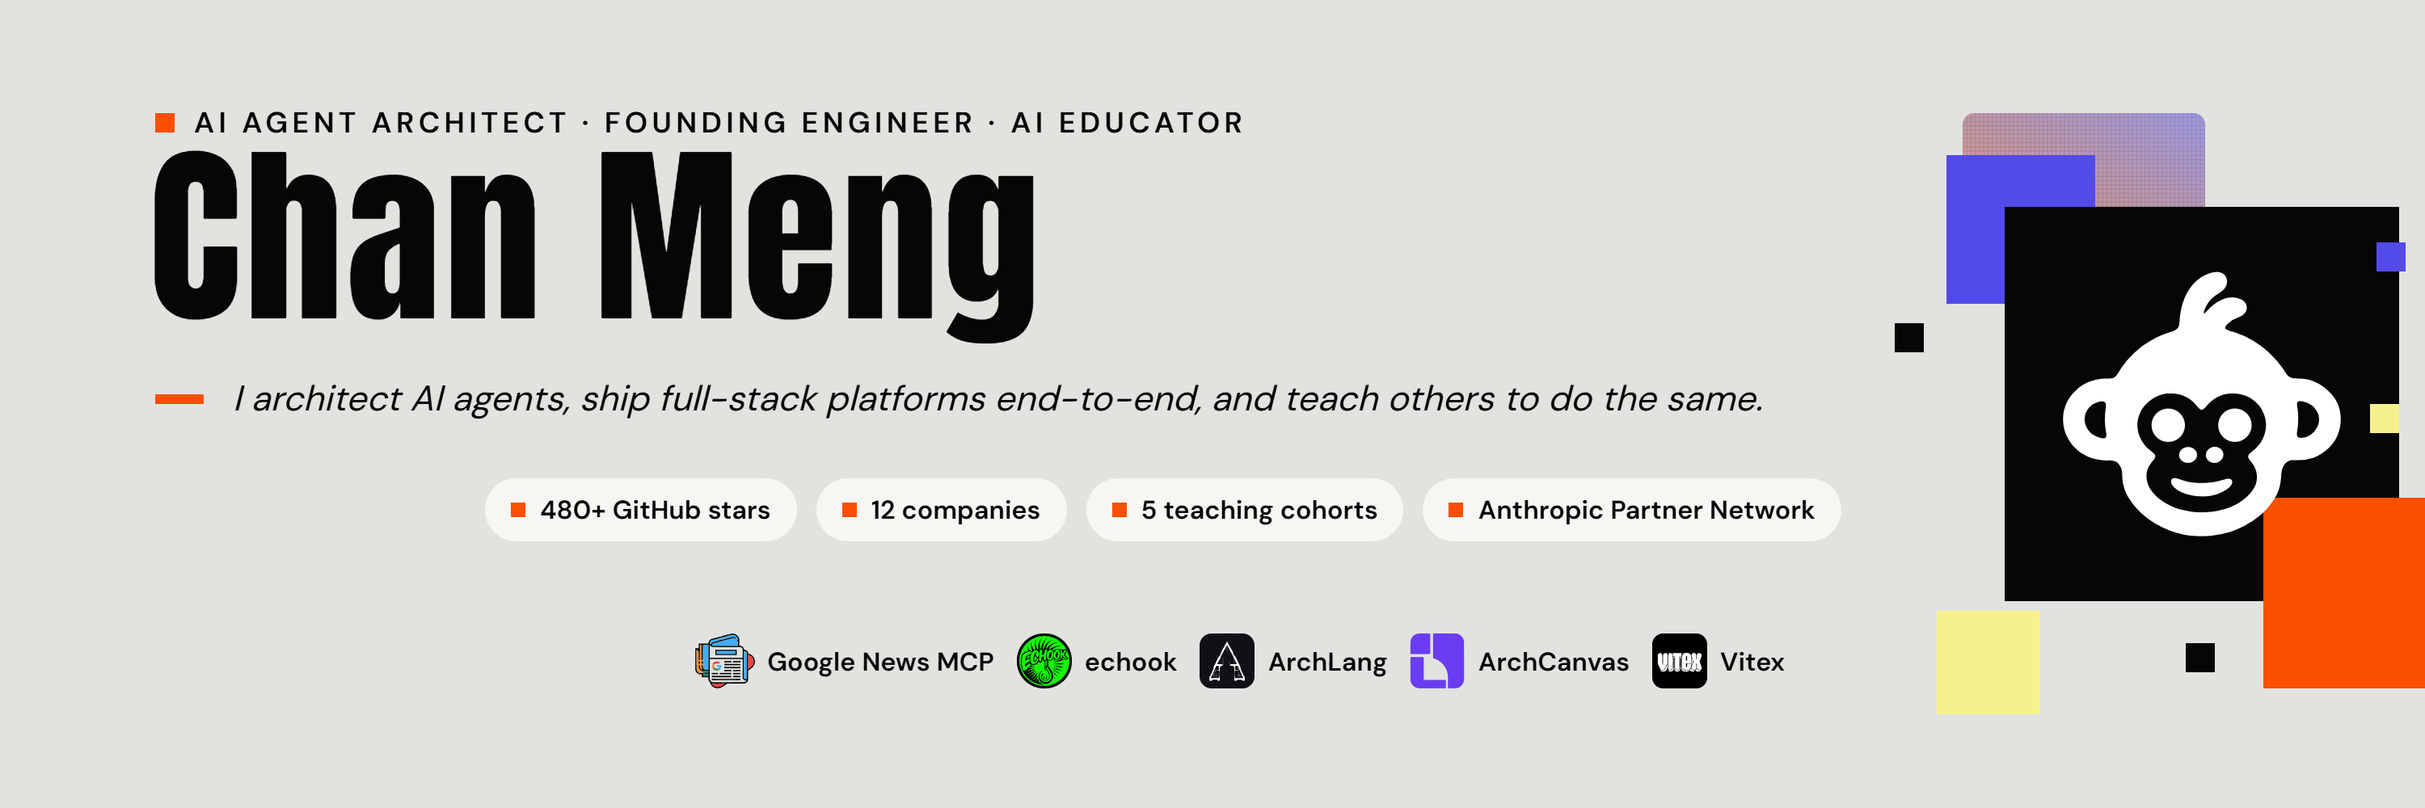
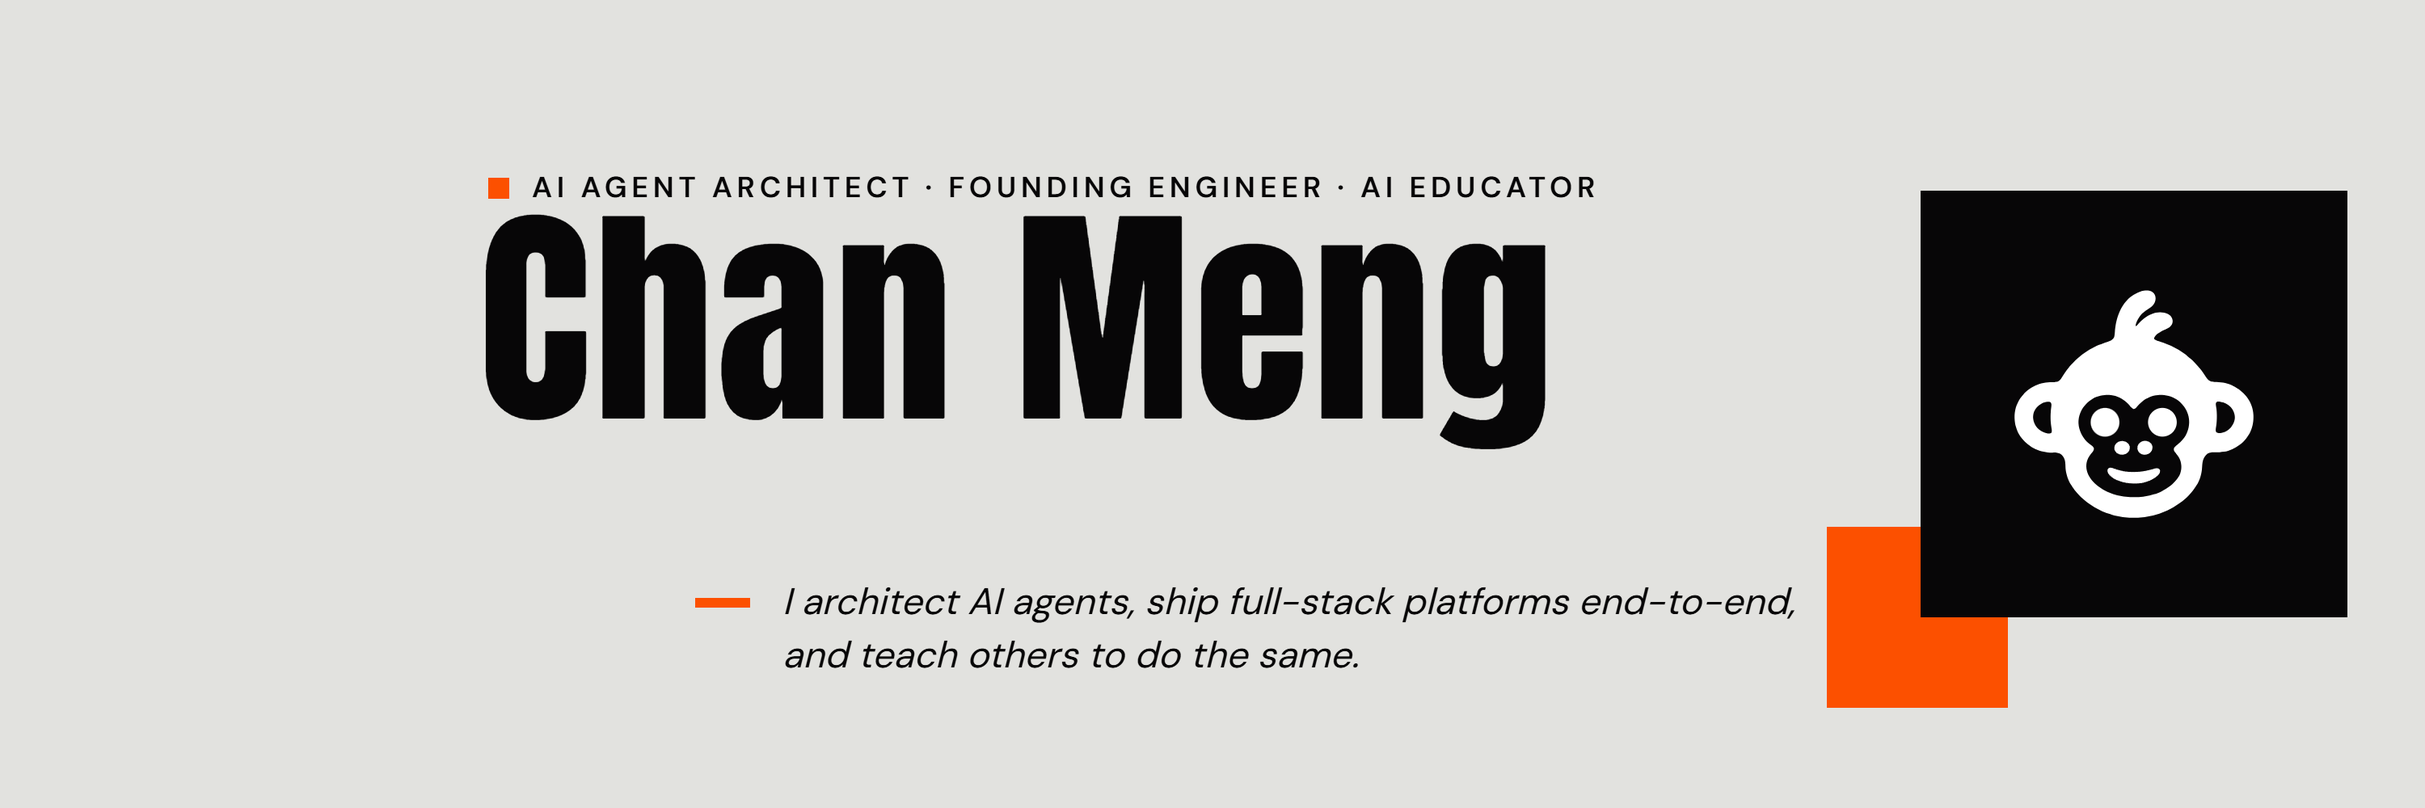
feat(x): v2 refinements — product-led bio, minimal header, pinned product-lineup image
Claude-Session: https://claude.ai/code/session_01QXprKmRtKgMAWYn544mSTt

diff --git a/x/header/header.html b/x/header/header.html
@@ -8,104 +8,68 @@
 <link href="https://fonts.googleapis.com/css2?family=Anton&family=DM+Sans:opsz,wght@9..40,400;9..40,500;9..40,600;9..40,700&display=swap" rel="stylesheet">
 <style>
   :root{
-    --basalt:#E2E2DF; --ash:#F7F6F2; --white:#FFFFFF; --ink:#070607;
-    --orange:#FC5000; --violet:#524AE9; --glare:#F5F28E; --muted:#5B5B59;
+    --basalt:#E2E2DF; --ink:#070607; --orange:#FC5000; --muted:#5B5B59;
   }
   *,*::before,*::after{ box-sizing:border-box; }
   html,body{ margin:0; padding:0; background:#aaa; font-family:'DM Sans',sans-serif; -webkit-font-smoothing:antialiased; }
 
-  /* Flat basalt ground — clean, lets the color-block composition pop.
-     X renders this at 1500×500 (3:1). */
+  /* Flat basalt ground. X renders this at 1500×500 (3:1). The header's only
+     job is identity — product proof lives in the bio + pinned image now, so
+     everything here is generous air, one big name, and one color-block mark. */
   .header{
     width:1500px; height:500px; position:relative;
     background:var(--basalt); overflow:hidden;
   }
 
-  /* ── Identity block — upper/left, well clear of the bottom-left corner where
-        X overlays the round profile avatar (~x46–246, y296–496 desktop). ── */
+  /* ── Left identity stack. Left edge at x=300 so the whole column sits clear
+        of the bottom-left avatar rectangle (x<280, y>280) that X overlays, and
+        leaves a wide basalt margin on the far left for calm asymmetry. ── */
   .eyebrow{
-    position:absolute; left:96px; top:64px;
-    font-weight:600; font-size:18px; letter-spacing:0.15em; text-transform:uppercase;
-    color:var(--ink); display:flex; align-items:center; gap:12px;
+    position:absolute; left:302px; top:104px;
+    font-weight:600; font-size:18px; letter-spacing:0.16em; text-transform:uppercase;
+    color:var(--ink); display:flex; align-items:center; gap:14px;
   }
-  .eyebrow .dot{ width:12px; height:12px; background:var(--orange); display:inline-block; flex:none; }
+  .eyebrow .sq{ width:13px; height:13px; background:var(--orange); display:inline-block; flex:none; }
 
   .name{
-    position:absolute; left:92px; top:92px;
-    font-family:'Anton',sans-serif; font-weight:400; font-size:120px;
-    line-height:0.9; letter-spacing:0.02em; color:var(--ink);
+    position:absolute; left:296px; top:132px;
+    font-family:'Anton',sans-serif; font-weight:400; font-size:146px;
+    line-height:0.9; letter-spacing:0.015em; color:var(--ink);
   }
 
-  /* Italic tagline with the orange dash mark — one clean line under the name. */
-  .signature{
-    position:absolute; left:96px; top:232px; white-space:nowrap;
-    display:flex; align-items:center; gap:18px;
+  /* Italic tagline with the orange dash mark — two calm lines under the name.
+     Left edge at x=430 (matches the LinkedIn cover .signature) so BOTH lines
+     clear the round avatar overlay: the avatar circle is widest at its vertical
+     centre (~y396), which aligns with the tagline's lower line, and there it
+     reaches past the old x≈300 edge — 430 keeps both lines clear with margin. */
+  .tagline{
+    position:absolute; left:430px; top:356px;
+    display:flex; align-items:flex-start; gap:20px;
   }
-  .signature .mark{ width:30px; height:6px; background:var(--orange); flex:none; }
-  .signature .text{
-    font-style:italic; font-weight:400; font-size:22px; letter-spacing:0.005em; color:var(--ink);
-  }
-
-  /* ── Metric chips — mid band. Starts x300 to stay clear of the avatar. ── */
-  .metrics{
-    position:absolute; left:300px; top:296px;
-    display:flex; align-items:center; gap:12px;
-  }
-  .chip{
-    display:flex; align-items:center; gap:9px;
-    background:var(--ash); border-radius:20px;
-    padding:9px 16px; white-space:nowrap;
-    font-weight:600; font-size:16px; letter-spacing:0.005em; color:var(--ink);
-  }
-  .chip .sq{ width:9px; height:9px; background:var(--orange); flex:none; }
-
-  /* ── Flagship proof strip — lower band, starts x430 so it clears the avatar
-        entirely. Product mark + wordmark per chip. ── */
-  .proof{
-    position:absolute; left:430px; top:392px;
-    display:flex; align-items:center; gap:14px;
-  }
-  .pchip{
-    display:flex; align-items:center; gap:8px;
-    white-space:nowrap;
-    font-weight:600; font-size:16px; letter-spacing:0.005em; color:var(--ink);
-  }
-  .pchip img{ height:34px; width:auto; display:block; flex:none; }
-  /* Anton wordmark fallback for marks that render illegibly small. */
-  .pchip .wm{
-    font-family:'Anton',sans-serif; font-weight:400; font-size:26px;
-    letter-spacing:0.02em; color:var(--ink); line-height:1;
-    height:34px; display:flex; align-items:center;
+  .tagline .mark{ width:34px; height:6px; background:var(--orange); flex:none; margin-top:14px; }
+  .tagline .text{
+    font-style:italic; font-weight:400; font-size:23px; line-height:1.45;
+    letter-spacing:0.005em; color:var(--ink);
   }
 
-  /* ── Right-side color-block composition — flat squares + monkey lockup,
-        scaled from the LinkedIn cover to the 500px-tall X canvas. Kept to
-        x>1200 so it never fights the text column. ── */
-  .block{ position:absolute; }
-  .b-violet{ left:1204px; top:96px;  width:92px;  height:92px;  background:var(--violet); }
-  .b-ink{    left:1240px; top:128px; width:244px; height:244px; background:var(--ink); }
-  .b-orange{ left:1400px; top:308px; width:118px; height:118px; background:var(--orange); }
-  .b-glare{  left:1198px; top:378px; width:64px;  height:64px;  background:var(--glare); }
-
-  /* Subtle halftone panel behind the blocks — the risograph texture signature. */
-  .halftone{
-    position:absolute; left:1214px; top:70px; width:150px; height:auto;
-    opacity:0.5; z-index:0;
+  /* ── Right side — exactly two elements. One large ink block carrying the
+        monkey mark, plus one orange square offset behind its lower-left
+        corner. Nothing else. Kept to x>1150 so it never crowds the name. ── */
+  .b-ink{
+    position:absolute; left:1188px; top:118px; width:264px; height:264px;
+    background:var(--ink); z-index:2;
+  }
+  .b-orange{
+    position:absolute; left:1130px; top:326px; width:112px; height:112px;
+    background:var(--orange); z-index:1;
   }
 
   /* Monkey mark on the ink block — invert flips the black art to white; the
      screen blend drops the SVG's white background square cleanly into the ink. */
   .logo{
-    position:absolute; left:1276px; top:164px; width:172px; height:172px;
-    filter:invert(1); mix-blend-mode:screen; z-index:2;
+    position:absolute; left:1246px; top:176px; width:148px; height:148px;
+    filter:invert(1); mix-blend-mode:screen; z-index:3;
   }
-
-  /* Scattered pixel accents — the cyber-playground signature. */
-  .px{ position:absolute; width:18px; height:18px; z-index:1; }
-  .p1{ left:1172px; top:200px; background:var(--ink); }
-  .p2{ left:1470px; top:150px; background:var(--violet); }
-  .p3{ left:1466px; top:250px; background:var(--glare); }
-  .p4{ left:1352px; top:398px; background:var(--ink); }
 
   /* ── Debug safe-zone overlay. OFF by default. To toggle ON, add the class to
         <body>: <body class="show-guides">  (remove before shipping). ── */
@@ -130,41 +94,17 @@
 <div class="header" data-out="x-header.png">
 
   <!-- identity -->
-  <div class="eyebrow"><span class="dot"></span>AI Agent Architect · Founding Engineer · AI Educator</div>
+  <div class="eyebrow"><span class="sq"></span>AI Agent Architect · Founding Engineer · AI Educator</div>
   <div class="name">Chan Meng</div>
-  <div class="signature">
+  <div class="tagline">
     <span class="mark"></span>
-    <span class="text">I architect AI agents, ship full-stack platforms end-to-end, and teach others to do the same.</span>
+    <span class="text">I architect AI agents, ship full-stack platforms end-to-end,<br>and teach others to do the same.</span>
   </div>
 
-  <!-- metric chips -->
-  <div class="metrics">
-    <span class="chip"><span class="sq"></span>480+ GitHub stars</span>
-    <span class="chip"><span class="sq"></span>12 companies</span>
-    <span class="chip"><span class="sq"></span>5 teaching cohorts</span>
-    <span class="chip"><span class="sq"></span>Anthropic Partner Network</span>
-  </div>
-
-  <!-- flagship proof strip -->
-  <div class="proof">
-    <span class="pchip"><img src="../../public/brands/server-google-news-mark.svg" alt="">Google News MCP</span>
-    <span class="pchip"><img src="../../public/brands/echook-logo.svg" alt="">echook</span>
-    <span class="pchip"><img src="../../public/brands/archlang-logo.svg" alt="">ArchLang</span>
-    <span class="pchip"><img src="../../public/brands/archcanvas-logo.svg" alt="">ArchCanvas</span>
-    <span class="pchip"><img src="../../public/brands/vitex.svg" alt="">Vitex</span>
-  </div>
-
-  <!-- right composition -->
-  <img class="halftone" src="../../public/brand/halftone-thumb.svg" alt="">
-  <div class="block b-violet"></div>
-  <div class="block b-ink"></div>
-  <div class="block b-orange"></div>
-  <div class="block b-glare"></div>
+  <!-- right composition — two elements only -->
+  <div class="b-orange"></div>
+  <div class="b-ink"></div>
   <img class="logo" src="../../public/brands/chan-monkey-logo-black.svg" alt="">
-  <div class="px p1"></div>
-  <div class="px p2"></div>
-  <div class="px p3"></div>
-  <div class="px p4"></div>
 
   <!-- safe-zone guides (hidden unless body.show-guides) -->
   <div class="guides">

diff --git a/x/media/pinned-products.html b/x/media/pinned-products.html
@@ -1,0 +1,104 @@
+<!DOCTYPE html>
+<html lang="en">
+<head>
+<meta charset="utf-8">
+<title>Chan Meng — Pinned Products (Caldera)</title>
+<link rel="preconnect" href="https://fonts.googleapis.com">
+<link rel="preconnect" href="https://fonts.gstatic.com" crossorigin>
+<link href="https://fonts.googleapis.com/css2?family=Anton&family=DM+Sans:opsz,wght@9..40,400;9..40,500;9..40,600;9..40,700&display=swap" rel="stylesheet">
+<style>
+  :root{
+    --basalt:#E2E2DF; --ash:#F7F6F2; --white:#FFFFFF; --ink:#070607;
+    --orange:#FC5000; --violet:#524AE9; --glare:#F5F28E; --muted:#5B5B59;
+  }
+  *,*::before,*::after{ box-sizing:border-box; }
+  html,body{ margin:0; padding:0; background:#aaa; font-family:'DM Sans',sans-serif; -webkit-font-smoothing:antialiased; }
+
+  /* Full-bleed basalt canvas — no frame, no border, no card-within-card.
+     X renders inline media at 16:9; this is 1200×675, captured at 2×. */
+  .sheet{
+    width:1200px; height:675px; position:relative;
+    background:var(--basalt); overflow:hidden;
+    padding:96px 100px;
+    display:flex; flex-direction:column; justify-content:space-between;
+  }
+
+  /* ── Eyebrow — small uppercase kicker, top-left. ── */
+  .eyebrow{
+    display:flex; align-items:center; gap:14px;
+    font-weight:700; font-size:16px; letter-spacing:0.22em; text-transform:uppercase;
+    color:var(--ink);
+  }
+  .eyebrow .sq{ width:11px; height:11px; background:var(--orange); flex:none; display:block; }
+
+  /* ── Product list — typographic rows, separated by air + a quiet hairline.
+        No boxes. Name column is fixed-width so the one-liners align. ── */
+  .list{ display:flex; flex-direction:column; }
+  .row{
+    display:flex; align-items:center; gap:28px;
+    padding:19px 0;
+  }
+  .row + .row{ border-top:1px solid rgba(7,6,7,0.11); }
+
+  .name-wrap{
+    width:392px; flex:none;
+    display:flex; align-items:center; gap:16px;
+  }
+  .name-wrap .bullet{ width:8px; height:8px; background:var(--orange); flex:none; display:block; }
+  .pname{
+    font-family:'Anton',sans-serif; font-weight:400; font-size:44px;
+    line-height:1; letter-spacing:0.012em; color:var(--ink);
+  }
+  .pdesc{
+    font-weight:500; font-size:21px; line-height:1.3; letter-spacing:0.004em;
+    color:var(--muted);
+  }
+
+  /* ── Footer signature — monkey mark + wordmark, bottom-left, aligned to the
+        left edge of everything above it. Transparent-black SVG sits directly
+        on basalt (no tile, no invert trick needed). ── */
+  .sign{
+    display:flex; align-items:center; gap:14px;
+  }
+  .sign img{ height:30px; width:auto; display:block; flex:none; }
+  .sign .who{ font-weight:600; font-size:19px; letter-spacing:0.01em; color:var(--ink); }
+</style>
+</head>
+<body>
+
+<div class="sheet" data-out="pinned-products.png">
+
+  <div class="eyebrow"><span class="sq"></span>What I Build</div>
+
+  <div class="list">
+    <div class="row">
+      <div class="name-wrap"><span class="bullet"></span><span class="pname">Google News MCP</span></div>
+      <div class="pdesc">Live news for AI assistants</div>
+    </div>
+    <div class="row">
+      <div class="name-wrap"><span class="bullet"></span><span class="pname">echook</span></div>
+      <div class="pdesc">Talk-to-configure notifications for coding agents</div>
+    </div>
+    <div class="row">
+      <div class="name-wrap"><span class="bullet"></span><span class="pname">ArchLang</span></div>
+      <div class="pdesc">A text language for floor plans</div>
+    </div>
+    <div class="row">
+      <div class="name-wrap"><span class="bullet"></span><span class="pname">ArchCanvas</span></div>
+      <div class="pdesc">Describe a building, get a buildable plan</div>
+    </div>
+    <div class="row">
+      <div class="name-wrap"><span class="bullet"></span><span class="pname">Vitex</span></div>
+      <div class="pdesc">Job ad in, tailored resume out</div>
+    </div>
+  </div>
+
+  <div class="sign">
+    <img src="../../public/brands/chan-meng-monkey-black-transparent.svg" alt="">
+    <span class="who">Chan Meng</span>
+  </div>
+
+</div>
+
+</body>
+</html>

diff --git a/x/x-profile.md b/x/x-profile.md
@@ -19,11 +19,17 @@ Copy for the X (Twitter) profile fields — display name, bio, location, website
 
 Pattern `Chan Meng — <short role descriptor>`. "AI Agent Architect" is the lead descriptor from `basics.label` and `meta.x_brand.valueProposition.identity`; it is the single most search-relevant role for both recruiters and technical readers, so it earns the display-name slot over the longer "& Full-Stack Engineer" (which lives in the bio instead).
 
-**Bio** (≤160 chars) — chosen primary:
+**Bio** (≤160 chars) — chosen primary (v2):
+
+> AI agent architect & full-stack engineer. ArchCanvas (archcanvas.uk): describe a building → buildable floor plan. Vitex (vitex.org.nz): job ad → resume.
+
+(152 chars.) Contains (a) compressed identity opener — AI agent architect + full-stack engineer; (b) two flagship products each with its live link as a bare domain and a value hint a stranger can parse — **ArchCanvas** (`archcanvas.uk`, the AI architect: describe a building and get a dimensioned, buildable floor plan) and **Vitex** (`vitex.org.nz`, the AI career agent: a job ad becomes a tailored resume). X bios count plain characters and are NOT t.co-wrapped, and X auto-links bare domains, so `archcanvas.uk` / `vitex.org.nz` render as clickable links at their literal character cost. No `chanmeng.org` — the Website field already carries it, so repeating it here would be redundant.
+
+_Previous bio (v1, applied live 2026-07-19, superseded same day) — kept for history:_
 
 > AI agent architect & full-stack engineer. I ship AI-native products end to end — creator of Tam-AI-Ti, a Te Whare Tapa Whā AI coach. chanmeng.org
 
-(145 chars.) Contains (a) compressed identity — AI agent architect + full-stack engineer; (b) one flagship proof point — Tam-AI-Ti, the Te Whare Tapa Whā AI coach (`20-projects-flagship.yaml`, flagship, live at tamaiti.whiri-ai.com); (c) pointer to chanmeng.org. The human-stakes lead ("I ship AI-native products end to end") reads for a recruiter; the named product and the cultural-tech specificity read for an engineer. X bios count plain characters and do not t.co-shorten URLs, so `chanmeng.org` is counted verbatim.
+_v2 applied live 2026-07-19 (@chanmeng666): the primary bio above was set live (renders with clean bare-domain links `archcanvas.uk` / `vitex.org.nz`); the header was replaced with the redesigned minimal `x/header/x-header.png`; the v1 pinned intro thread (root status `2078709504532000825`, 3 tweets) was deleted and a fresh 3-tweet thread from `x/x-pinned-tweet.md` was posted, with `x/media/pinned-products.png` attached to tweet 1 and pinned (new root status `2078727381859389815`). Auto-generated link cards were removed from tweets 2 and 3 so the thread's only media is tweet 1's product lineup. Display name, location, and website were left unchanged. The v0 rollback table above is preserved as the original pre-July baseline._
 
 **Location** — `Auckland, New Zealand`
 
@@ -35,17 +41,17 @@ Reasoning: X's Professional Account category taxonomy has no "software engineer"
 
 ## Alternate bios
 
-**Alternate 1** (148 chars) — credential-forward, recruiter-leaning:
+**Alternate 1** (160 chars) — recruiter-leaning, "ships products solo":
 
-> AI Agent Architect · Founding engineer · AI educator. 480+ GitHub stars, Master’s with Distinction. AI, cultural tech & women’s health. chanmeng.org
+> AI agent architect & full-stack engineer. I ship AI-native products solo: ArchCanvas (archcanvas.uk), an AI architect, and Vitex (vitex.org.nz), a career agent.
 
-_When to use:_ during an active job search or recruiter-heavy period, when the adoption signal (480+ stars — given by other people, per the `proofLine` note in `90-meta.yaml`) and the credential do more work than a single named product.
+_When to use:_ during an active job search or recruiter-heavy period, where the "ships AI-native products solo" framing plus two live, linked, self-describing products (ArchCanvas = AI architect, Vitex = AI career agent) does more work than a bare credential list. Both products link out as bare domains; no `chanmeng.org` (Website field covers it).
 
-**Alternate 2** (153 chars) — builder/open-source-leaning:
+**Alternate 2** (157 chars) — builder / open-source-leaning:
 
-> I architect AI agents & ship full-stack platforms solo. Creator of Tam-AI-Ti and an early Model Context Protocol server (PulseMCP Top Pick). chanmeng.org
+> I architect AI agents & ship full-stack solo. ArchCanvas (archcanvas.uk): brief → buildable floor plan. Vitex (vitex.org.nz): job ad → resume. Plus ArchLang.
 
-_When to use:_ when the audience skews developer/open-source (e.g. after MCP or agent-tooling posts), where "early Model Context Protocol server (PulseMCP Top Pick)" is the strongest credibility hook for technical readers.
+_When to use:_ when the audience skews developer/open-source (e.g. after agent-tooling or DSL posts). Keeps the two linked flagship products but name-drops **ArchLang** (Chan's own floor-plan DSL that ArchCanvas compiles) as the extra credibility hook for technical readers. No `chanmeng.org`.
 
 ## Character-count verification
 
@@ -53,16 +59,16 @@ _When to use:_ when the audience skews developer/open-source (e.g. after MCP or 
 $ node -e '
 const items = {
   "display":  "Chan Meng — AI Agent Architect",
-  "primary":  "AI agent architect & full-stack engineer. I ship AI-native products end to end — creator of Tam-AI-Ti, a Te Whare Tapa Whā AI coach. chanmeng.org",
-  "alt1":     "AI Agent Architect · Founding engineer · AI educator. 480+ GitHub stars, Master’s with Distinction. AI, cultural tech & women’s health. chanmeng.org",
-  "alt2":     "I architect AI agents & ship full-stack platforms solo. Creator of Tam-AI-Ti and an early Model Context Protocol server (PulseMCP Top Pick). chanmeng.org"
+  "primary":  "AI agent architect & full-stack engineer. ArchCanvas (archcanvas.uk): describe a building → buildable floor plan. Vitex (vitex.org.nz): job ad → resume.",
+  "alt1":     "AI agent architect & full-stack engineer. I ship AI-native products solo: ArchCanvas (archcanvas.uk), an AI architect, and Vitex (vitex.org.nz), a career agent.",
+  "alt2":     "I architect AI agents & ship full-stack solo. ArchCanvas (archcanvas.uk): brief → buildable floor plan. Vitex (vitex.org.nz): job ad → resume. Plus ArchLang."
 };
 for (const [k,v] of Object.entries(items)) console.log(k.padEnd(9), String(v.length).padStart(3), (v.length<=(k==="display"?50:160)?"OK ":"OVER"), JSON.stringify(v));
 '
 display    30 OK  "Chan Meng — AI Agent Architect"
-primary   145 OK  "AI agent architect & full-stack engineer. I ship AI-native products end to end — creator of Tam-AI-Ti, a Te Whare Tapa Whā AI coach. chanmeng.org"
-alt1      148 OK  "AI Agent Architect · Founding engineer · AI educator. 480+ GitHub stars, Master’s with Distinction. AI, cultural tech & women’s health. chanmeng.org"
-alt2      153 OK  "I architect AI agents & ship full-stack platforms solo. Creator of Tam-AI-Ti and an early Model Context Protocol server (PulseMCP Top Pick). chanmeng.org"
+primary   152 OK  "AI agent architect & full-stack engineer. ArchCanvas (archcanvas.uk): describe a building → buildable floor plan. Vitex (vitex.org.nz): job ad → resume."
+alt1      160 OK  "AI agent architect & full-stack engineer. I ship AI-native products solo: ArchCanvas (archcanvas.uk), an AI architect, and Vitex (vitex.org.nz), a career agent."
+alt2      157 OK  "I architect AI agents & ship full-stack solo. ArchCanvas (archcanvas.uk): brief → buildable floor plan. Vitex (vitex.org.nz): job ad → resume. Plus ArchLang."
 ```
 
-Display name 30/50, primary bio 145/160, alt1 148/160, alt2 153/160 — all within limits.
+Display name 30/50, primary bio 152/160, alt1 160/160, alt2 157/160 — all within limits. No bio contains `chanmeng.org`; each names ArchCanvas + Vitex with its bare-domain link and a value hint.

diff --git a/x/x-pinned-tweet.md b/x/x-pinned-tweet.md
@@ -15,6 +15,11 @@ and must never be linked or mentioned.
 
 ## The pinned thread (3 tweets)
 
+> **Live status (v2, 2026-07-19):** Tweet 1 is posted with
+> `x/media/pinned-products.png` attached (the image suppresses the auto link
+> card that the profile URL would otherwise render). Thread root status id:
+> `2078727381859389815`.
+
 A pin shows only the first tweet, so Tweet 1 stands fully on its own: who Chan
 is, the human-stakes value, and the compressed proof (480+ GitHub stars across
 shipped AI tools). Tweets 2 and 3 continue for anyone who expands the thread.
